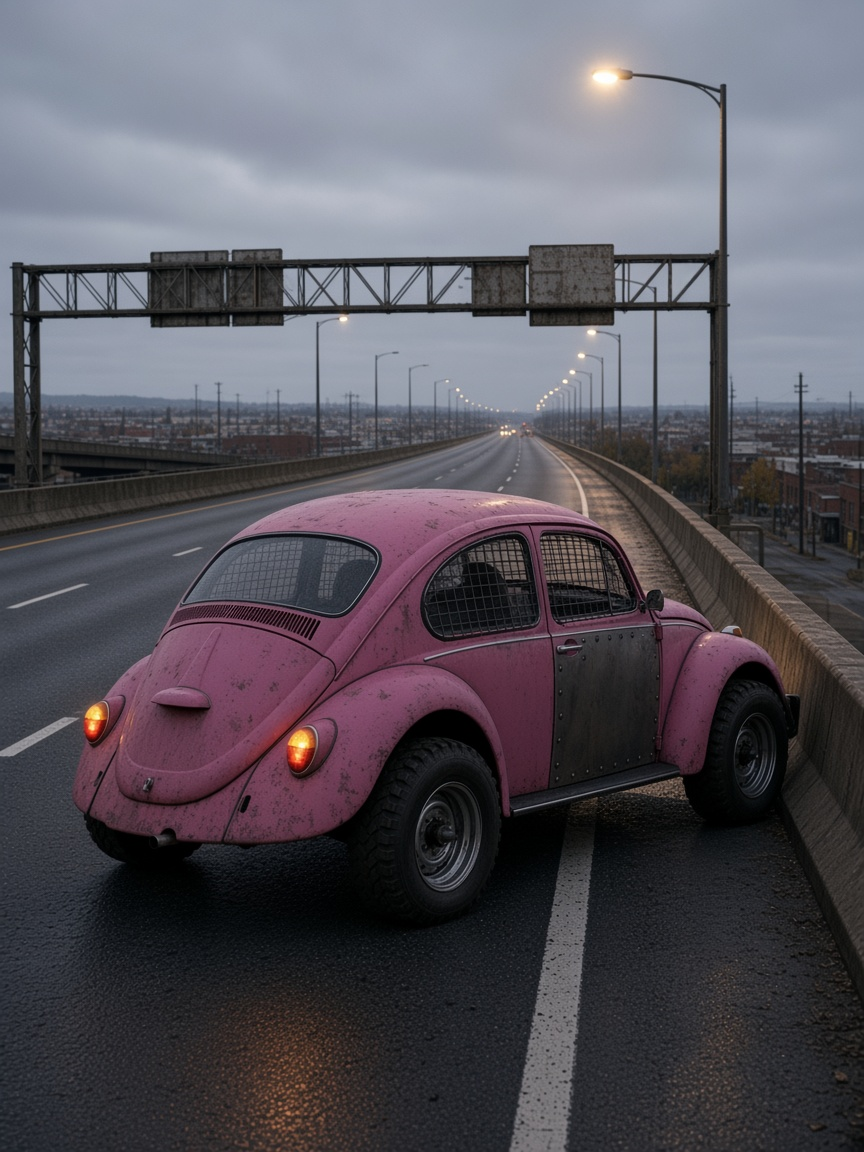
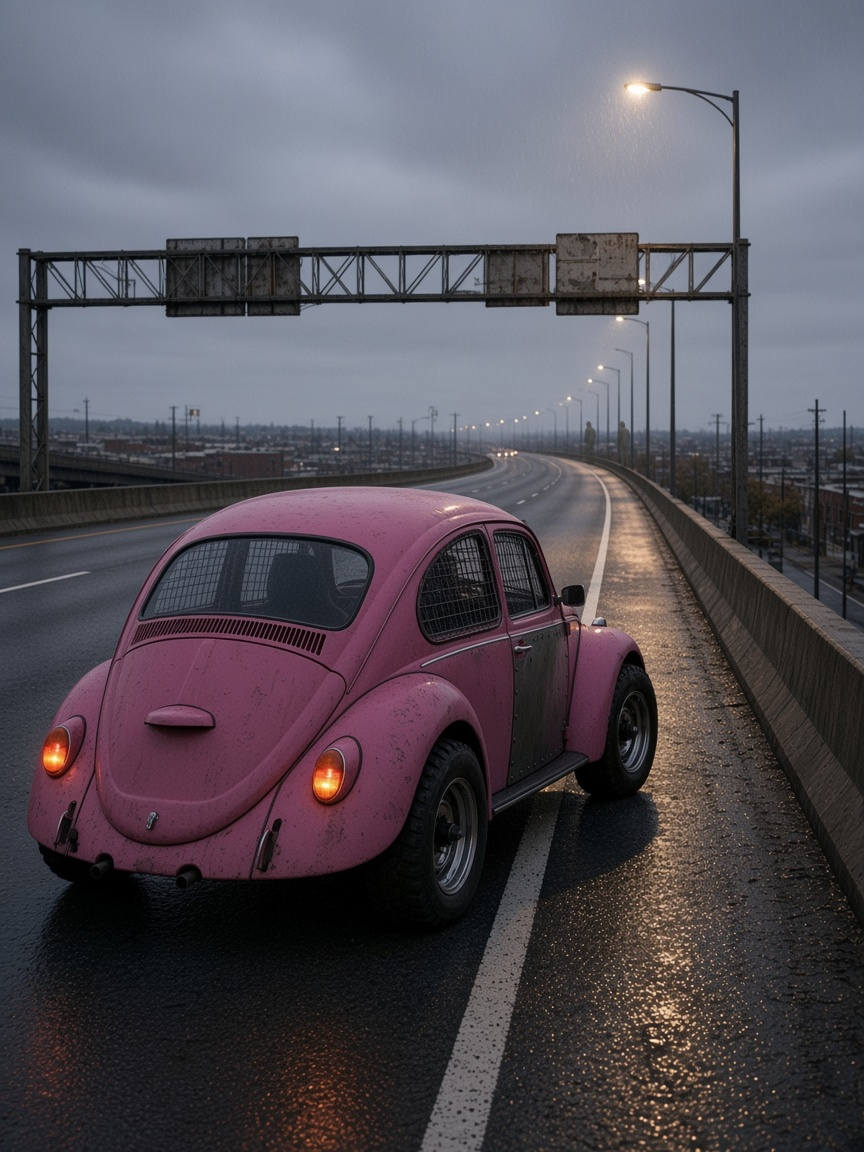
Seed V-013 take-7 Quiet silhouette as the live Flashers still.
Promote QP-003 take-7 (Claude overflow mute-read PASS) over empty-stretch take-5. Keep Skill 11 remaps. Do not seed take-6. Cache bump a76.

diff --git a/src/game.js b/src/game.js
@@ -222,7 +222,7 @@ function sceneFragment(scene) {
 }
 
 function imageUrl(cardId) {
-  return "/api/run/image/" + encodeURIComponent(cardId) + "?v=a75";
+  return "/api/run/image/" + encodeURIComponent(cardId) + "?v=a76";
 }
 
 function cargoUsed(state) {

diff --git a/cards/takes/WAVE1_MAP.md b/cards/takes/WAVE1_MAP.md
@@ -2,17 +2,17 @@
 
 Card JSON is the sole brief. This file only names closest / runner / residual.
 Claude-accepted 2026-09-12: compile authority matches the named Ribbon shots.
-Seeded live: V-013←take-5, V-008←take-3, V-006←take-3. V-008 take-1 not seeded. Plates stay in their own PRs.
+Seeded live: V-013←take-7 (Quiet silhouette PASS), V-008←take-3, V-006←take-3. V-008 take-1 not seeded. V-013 take-6 FAIL not seeded. Plates stay in their own PRs.
 
 | Card | Plate | Closest | Runner | Discard |
 |---|---|---|---|---|
-| V-013 | `ref_ribbon_deck` take-4 | **take 5 PASS (live)** | take 3 | take 2 (frontal / plow at lens); take 4 (wrong face, red lamps, wide pad) |
+| V-013 | `ref_ribbon_deck` take-4 | **take 7 PASS (live Quiet dressing)** | take 5 (empty stretch, superseded) | take 6 FAIL (do not seed); take 2 (frontal / plow at lens); take 4 (wrong face, red lamps, wide pad) |
 | V-008 | `ref_ribbon_workzone` C-1 | **take 3 PASS** | — | take 1 FAIL (do not seed); take 4 (rear bar / wrong side); take 5 (frontal plow) |
 | V-006 | `ref_ribbon_rig` take-1 | **take 3 PASS** | take 1 | take 4 (3/4 front + plow at lens); take 2 (mirrors weaker) |
 
 ## Residuals already visible
 
-- **V-013 take 5:** shoulder is the fog-line / Jersey squeeze (part of the car on the live line) — closer to the plate than take 1. Curve is still a long straight deck with only a weak far bend. Dusk leans late (streetlights on, sky gray not black). Ali is a mesh silhouette, not a clear belted read. Camera is three-quarter-ish, not a hard offset from the travel lane.
+- **V-013 take 7 (live):** Quiet dressing on the banked take-3 plate — two distant silhouettes at the far right shoulder / curve. Teaching read stays the stopped Menace on the narrow shoulder past the curve; flashers, mesh, steel door, fog-line squeeze hold. take-5 was the empty-stretch wave-1 PASS before QP-003. take-6 (take-5 plate + Quiet) FAIL — not seeded.
 - **V-008 take 3:** camera is behind and right of a large Beetle; workers read as people; MUTCD orange holds; left gantry panel is blank at full crop. Cones still run as a longitudinal file along the fog line, not a strong lateral pinch toward the skip-dash. That is also how the live workzone plate reads — flag as plate-plus-card, not card-art-only.
 - **V-006 take 3:** door-height, Beetle low, period rust, unmarked trailer, wet spray, a west-coast mirror arm in frame. Residual: not both mirrors crisp; some hood still in the left; not a pure gap-only crop.
 
@@ -24,6 +24,6 @@ Holds: no legible route/exit number; no snow/ice/chains; no sun/warm cast; wet s
 
 Card JSON is still the sole brief. Text now matches the Ribbon shots. Seeded to live playtest DB.
 
-- **V-013** — EXACT Claude JSON. Brad PASS promote take-5; take-3 banked. Master `cards/V-013.png`. QP-003 mute-read (not seeded): **take 6 closest** = take-5 plate + two Quiet silhouettes at the far right shoulder / curve; **take 7 runner** = same dressing on take-3. Alias `V-013-take-5-quiet.png` = take 6. Live master stays take-5.
+- **V-013** — EXACT Claude JSON (Skill 11 Flashers on the Strip). Live master **take-7** Quiet silhouette (Claude overflow mute-read PASS + Brad promote). take-6 FAIL not seeded. take-5 empty stretch superseded. Master `cards/V-013.png`. No Quiet on V-006 / V-008.
 - **V-008** — EXACT Claude JSON. Brad PASS promote take-3 (6x left-gantry weathered blank, CLEAR TO SEED). take-1 FAIL. Master `cards/V-008.png`.
 - **V-006** — EXACT Claude JSON. Brad PASS promote take-3; take-1 banked. Master `cards/V-006.png`.

diff --git a/PLAYTEST.md b/PLAYTEST.md
@@ -4,13 +4,13 @@
 
 Parents: [https://parents.tactag.app](https://parents.tactag.app).
 
-Image cache `?v=a75`. Railway production is on this ship branch until #195 merges to `main`.
+Image cache `?v=a76`. Railway production is on this ship branch until #195 merges to `main`.
 
-Quiet presence floor (QP-001 / [#202](https://github.com/d6ewasupervisor-netizen/pink_menace/pull/202) / [#203](https://github.com/d6ewasupervisor-netizen/pink_menace/pull/203)): clean correct answers stay at presence **3**, never 0. Entering Act II+ shows one tap of Quiet line, then the card. QP-003 V-013 Quiet dressing stills are mute-read only (take-6 / take-7) — live V-013 remains take-5. Do not put Quiet on V-006 / V-008.
+Quiet presence floor (QP-001 / [#202](https://github.com/d6ewasupervisor-netizen/pink_menace/pull/202) / [#203](https://github.com/d6ewasupervisor-netizen/pink_menace/pull/203)): clean correct answers stay at presence **3**, never 0. Entering Act II+ shows one tap of Quiet line, then the card. QP-003 V-013 Quiet dressing is **live take-7** (Claude overflow mute-read PASS + Brad promote). take-6 FAIL — not seeded. No Quiet on V-006 / V-008.
 
 **Act V is complete (all 13).** V-009 take-37 is live (Claude overflow PASS, eyes forward). Take-31 FAIL — not used.
 
-Ribbon wave-1 stills + Skill 11 remaps (PR #198 / #199): V-013 take-5, V-008 take-3, V-006 take-3. V-008 take-1 FAIL — not seeded.
+Ribbon wave-1 stills + Skill 11 remaps (PR #198 / #199 / #200): V-008 take-3, V-006 take-3. V-013 superseded by QP-003 **take-7**. V-008 take-1 FAIL — not seeded.
 
 ## How to play
 
@@ -66,7 +66,7 @@ Highway / Skill eleven. Ali. Relay kit cargo. Yuna is radio-only.
 | V-010 | One Lane, Then Sit | rule | take-10 · #194 | MATCH |
 | V-011 | Zipper at the Closure | hazard | take-7 · #159 | MATCH |
 | V-012 | Three Seconds Here Too | rule | take-20 · #194 | MATCH |
-| V-013 | Flashers on the Strip | scene | take-5 · Ribbon wave-1 (PR #198/#199/#200) | MATCH |
+| V-013 | Flashers on the Strip | scene | take-7 · QP-003 Quiet silhouette (take-6 FAIL not seeded; take-5 superseded) | MATCH |
 
 ### V-009 status
 
@@ -78,9 +78,17 @@ Highway / Skill eleven. Ali. Relay kit cargo. Yuna is radio-only.
 
 | Card | Seeded take | webp md5 | Not seeded |
 |---|---|---|---|
-| V-013 | take-5 | `92d548a31abb5e8f7d1b5f516bd730df` | take-3 banked |
+| V-013 | take-5 (superseded by take-7 below) | `92d548a31abb5e8f7d1b5f516bd730df` | take-3 banked; take-6 FAIL |
 | V-008 | take-3 | `dc7ccd313519500cb9df16b056b0340c` | take-1 FAIL |
 | V-006 | take-3 | `4d68c80a9effdfd372991f49c89af410` | take-1 banked |
+
+### QP-003 V-013 Quiet silhouette seed (2026-09-12)
+
+**Live.** Claude overflow mute-read PASS + Brad promote **take-7**. Composites from [PR #204](https://github.com/d6ewasupervisor-netizen/pink_menace/pull/204). Skill 11 Flashers remap intact (PR #199). **take-6 not seeded.**
+
+| Card | Seeded take | Notes |
+|---|---|---|
+| V-013 | **take-7** | Quiet silhouettes on banked take-3 plate; replaces empty-stretch take-5 |
 
 Independent `audit-stills --act V` → **13/13 MATCH**.
 

diff --git a/pack/26_THE_QUIET.md b/pack/26_THE_QUIET.md
@@ -76,4 +76,4 @@ If she sees them and it doesn't change how she drives, the tiers are firing but 
 
 Text only. One tap. No new cards. Fires once when entering the next act (II+), from the prior run's presence or a daylight cargo-fail. Four lines: farther / still out there / closer / daylight closed in. Never "zombies." Never "you're safe."
 
-QP-003 V-013 Quiet dressing stills are a mute-read pass (`cards/takes/V-013-take-6.png` closest, take-7 runner). Do not live-seed until Brad/Claude. Teaching read stays the shoulder stop — two distant silhouettes only, no Quiet on V-006 / V-008. QP-004 (V-001, V-007, V-010, Acts II–IV ambient) is later.
+QP-003 V-013 live still is **take-7** Quiet silhouette dressing (Claude overflow mute-read PASS + Brad promote). take-6 FAIL — not seeded. Teaching read stays Skill 11 Flashers on the Strip — two distant figures only. No Quiet on V-006 / V-008. QP-004 (V-001, V-007, V-010, Acts II–IV ambient) is later.

diff --git a/PLAYTHROUGH.md b/PLAYTHROUGH.md
@@ -62,7 +62,7 @@ Dossiers are continue-only (no quiz options). That is intended.
 | V-010 | One Lane, Then Sit | rule | take 10 · #194 |
 | V-011 | Zipper at the Closure | hazard | take 7 · #159 |
 | V-012 | Three Seconds Here Too | rule | take 20 · #194 |
-| V-013 | Flashers on the Strip | scene | take 5 · Ribbon wave-1 (#198/#199) |
+| V-013 | Flashers on the Strip | scene | take 7 · Quiet silhouette (#204 PASS; take-6 not seeded) |
 
 ## Known residuals (play anyway)
 
